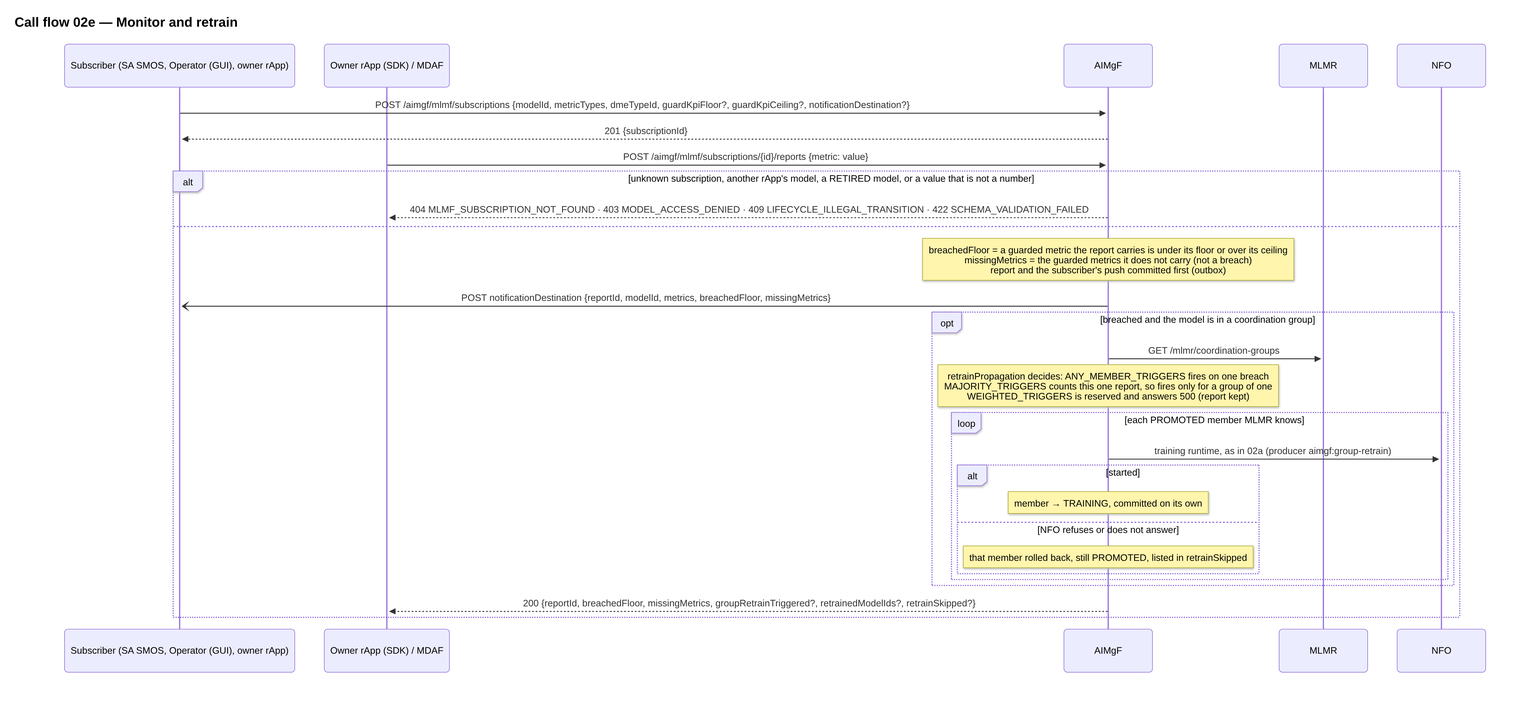
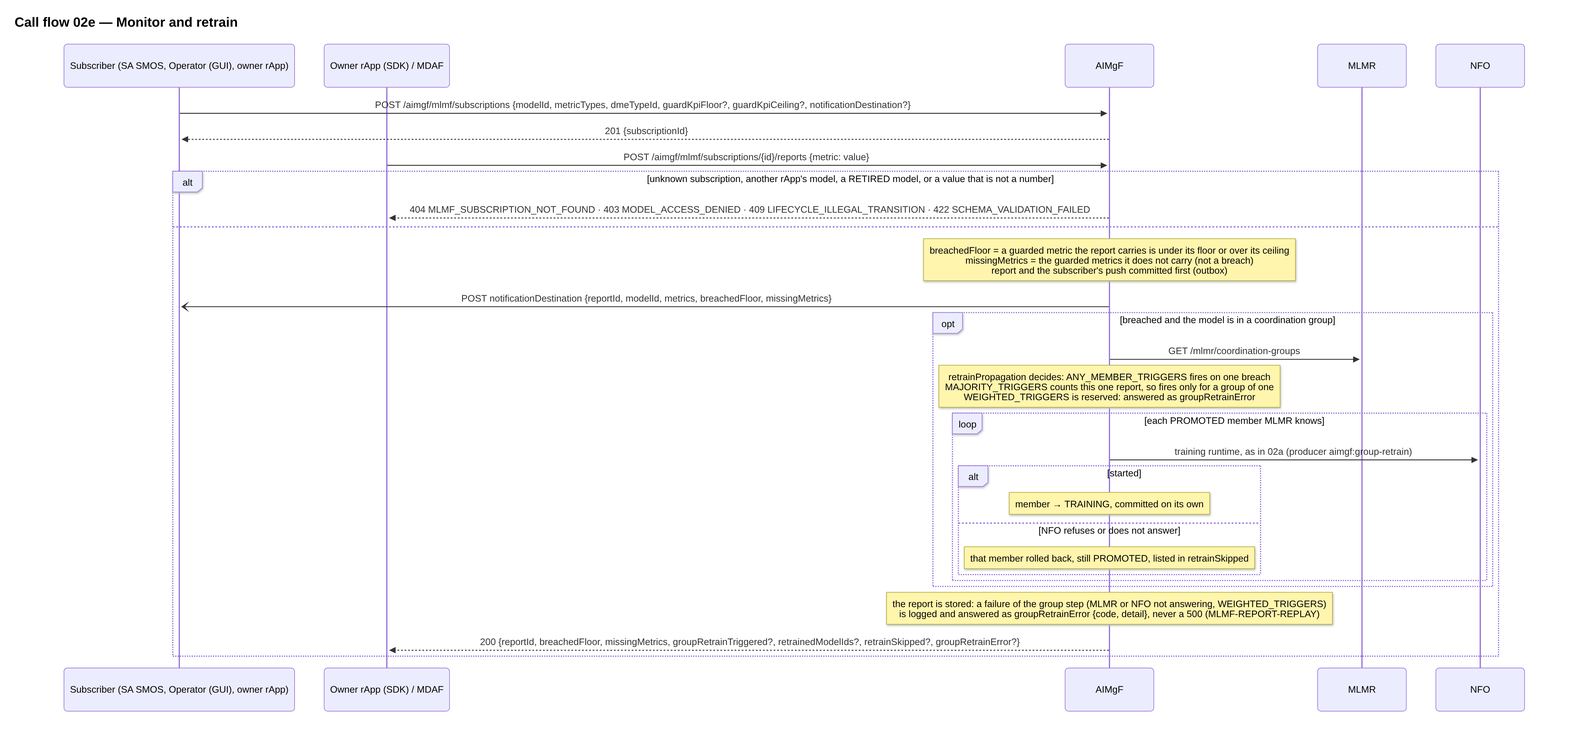
AIMgF: a stored MLMF report answers 200 whatever its group retrain does (MLMF-REPORT-REPLAY)
POST /aimgf/mlmf/subscriptions/{id}/reports commits the report and its
outbox row, then runs the group-retrain step. When that step raised
(WEIGHTED_TRIGGERS, an unknown retrainPropagation, MLMR or NFO not
answering) the route answered 500, @idempotent released the key, and the
SDK's repeat stored a second report.

The step is now _group_retrain_step, which never raises: a failure is
rolled back, logged at WARNING and answered as groupRetrainError
{code, detail} (UPSTREAM_FAILED or INTERNAL_ERROR) beside the members
already started. A failure before the commit still raises, stores nothing
and releases the key. Nothing relied on the 500 (MDAF's drift forwarding
swallows every answer; no sample rApp, SA SMOS or SDK test reads it).

Tests in aimgf/tests/test_main.py; docs: aimgf README and lifecycle, call
flows 02e and 13b (images redrawn), VALIDATION, HISTORY, CHANGELOG. The
item is recorded and closed here, so it has no OPEN_ITEMS row.

Claude-Session: https://claude.ai/code/session_01Q99JvKMeSSktNE2dzQEuGf

diff --git a/smo/aimgf/app/main.py b/smo/aimgf/app/main.py
@@ -1968,13 +1968,14 @@ def report_performance(request: Request, subscription_id: uuid.UUID, metrics: di
     # number is 422 `SCHEMA_VALIDATION_FAILED` with nothing stored. A report breaches when a guarded metric it carries is below its floor or above its ceiling; a
     # guarded metric it does not carry is listed in `missingMetrics` and does not breach (call flow 13b: MDAF's drift reports carry only their own outputs). The
     # report and its subscriber notification (`{reportId, modelId, metrics, breachedFloor, missingMetrics}`) are committed first. Only then, for a breach, is the model's
-    # coordination group fetched from MLMR and `should_trigger_group_retrain` asked with `breached_count=1`; a raise from it (WEIGHTED_TRIGGERS or an unknown
-    # value) is not caught and answers 500 after the report is already stored. When it fires, `_trigger_group_retrain` starts a run for each PROMOTED member,
-    # committing each on its own; a member NFO refuses is skipped, not fatal (call flow 02e). Answers `reportId`, `breachedFloor` and, for a group member,
-    # `groupRetrainTriggered` and, when it fired, `retrainedModelIds` and `retrainSkipped` (`[{modelId, reason}]`); `missingMetrics` always.
+    # coordination group fetched from MLMR and `should_trigger_group_retrain` asked with `breached_count=1`. When it fires, `_trigger_group_retrain` starts a
+    # run for each PROMOTED member, committing each on its own; a member NFO refuses is skipped, not fatal (call flow 02e). Answers `reportId`, `breachedFloor`
+    # and, for a group member, `groupRetrainTriggered` and, when it fired, `retrainedModelIds` and `retrainSkipped` (`[{modelId, reason}]`); `missingMetrics` always.
+    # Once the report is committed the answer is 200 whatever the group step does (MLMF-REPORT-REPLAY): a failure there (MLMR or NFO not answering,
+    # WEIGHTED_TRIGGERS or an unknown `retrainPropagation`) is answered as `groupRetrainError` `{code, detail}` (`_group_retrain_step`). A failure before the
+    # commit still raises, stores nothing and releases the Idempotency-Key.
     # `@idempotent("aimgf")` (SDK-RETRY-IDEMPOTENCY): a keyed repeat is answered from the first answer, so no second report, notification or group retrain. The
-    # path is part of the key's fingerprint, so the same key on another subscription's reports is 422 IDEMPOTENCY_KEY_REUSED. A 500 from the group step after
-    # the report is committed releases the key (only 2xx answers are stored), so a repeat after that 500 stores a second report.
+    # path is part of the key's fingerprint, so the same key on another subscription's reports is 422 IDEMPOTENCY_KEY_REUSED.
     sub = db.get(MLMFSubscription, subscription_id)
     if sub is None:
         raise framework_error(FrameworkError.MLMF_SUBSCRIPTION_NOT_FOUND, detail="no such MLMF subscription")
@@ -1999,19 +2000,38 @@ def report_performance(request: Request, subscription_id: uuid.UUID, metrics: di
 
     result = {"reportId": str(report.id), "breachedFloor": breached, "missingMetrics": missing}
     if breached:
-        # if this model belongs to a coordination group, decide group-scoped
-        # propagation per LLD section 4.3-4.4; otherwise it's a standalone retrain trigger.
-        group = _find_coordination_group_for_model(sub.model_id)
-        if group is not None:
-            triggered = should_trigger_group_retrain(
-                group["retrainPropagation"], member_count=len(group["memberModelIds"]), breached_count=1
-            )
-            result["groupRetrainTriggered"] = triggered
-            if triggered:
-                started, skipped = _trigger_group_retrain(db, group)
-                result["retrainedModelIds"] = [str(mid) for mid in started]
-                result["retrainSkipped"] = skipped
+        _group_retrain_step(db, sub.model_id, result)
     return result
+
+
+def _group_retrain_step(db: Session, model_id: uuid.UUID, result: dict) -> None:
+    """Runs the group-retrain step of a breached MLMF report, after the report is committed, and writes its outcome into `result` (the route's answer). Never raises.
+
+    For a model in an MLMR coordination group it sets `groupRetrainTriggered` (the group's `retrainPropagation` decides, LLD sections 4.3 and 4.4) and, when it fired,
+    `retrainedModelIds` and `retrainSkipped` (call flow 02e); a model in no group is not retrained by a breach. Any failure of the step (MLMR or NFO not answering, a
+    reserved or unknown `retrainPropagation`, anything else) rolls back what the step had not committed, is logged at WARNING and is answered as
+    `groupRetrainError` `{code, detail}` (`code` UPSTREAM_FAILED for a transport error, INTERNAL_ERROR otherwise), beside the members already started.
+    It never raises because the report is stored: a 500 here released the Idempotency-Key, and a repeat stored a second report (MLMF-REPORT-REPLAY).
+    """
+    started: list[uuid.UUID] = []
+    skipped: list[dict] = []
+    try:
+        group = _find_coordination_group_for_model(model_id)
+        if group is None:
+            return
+        triggered = should_trigger_group_retrain(group["retrainPropagation"], member_count=len(group["memberModelIds"]), breached_count=1)
+        result["groupRetrainTriggered"] = triggered
+        if triggered:
+            _trigger_group_retrain(db, group, started, skipped)
+    # Deliberately broad: whatever fails after the report's commit must not turn its answer into a 500 (see the docstring).
+    except Exception as exc:  # noqa: BLE001
+        db.rollback()
+        code = FrameworkError.UPSTREAM_FAILED[0] if isinstance(exc, httpx.HTTPError) else FrameworkError.INTERNAL_ERROR[0]
+        logger.warning("group retrain after the MLMF report of model %s failed: %s %s: %s", model_id, code, type(exc).__name__, exc)
+        result["groupRetrainError"] = {"code": code, "detail": f"{type(exc).__name__}: {exc}"}
+    if result.get("groupRetrainTriggered"):
+        result["retrainedModelIds"] = [str(mid) for mid in started]
+        result["retrainSkipped"] = skipped
 
 
 @app.get("/mlmf/subscriptions")
@@ -2062,16 +2082,16 @@ def list_recent_performance_reports(request: Request, breached_only: bool = Fals
     return {**page, "items": [_performance_report_view(r) for r in page["items"]]}
 
 
-def _trigger_group_retrain(db: Session, group: dict) -> tuple[list[uuid.UUID], list[dict]]:
-    """Starts a RE_TRAINING run for every PROMOTED member of the coordination group; returns the ids of the members it started and the members it could not start.
+def _trigger_group_retrain(db: Session, group: dict, retrained_model_ids: list[uuid.UUID], skipped: list[dict]) -> None:
+    """Starts a RE_TRAINING run for every PROMOTED member of the coordination group; appends each member it started to `retrained_model_ids` and each it could not
+    start to `skipped` as it goes, so the caller keeps them when a later member raises.
 
     `group` is MLMR's group object (`memberModelIds`). A member MLMR no longer knows (`_get_model_or_none`) or that is not PROMOTED (already TRAINING from an earlier trigger, mid-certification, never
     certified) is passed over, never forced: a group retrain is a PROMOTED model's retrain, not a first cycle or a recovery. Each run goes through `_start_training` (the same lifecycle gate, NFO runtime and
     MLTrainingProcess as a requested retrain) with producer `aimgf:group-retrain`. Best effort per member (call flow 02e, DOC-CF-1.6): each started run is committed on its own, and a member whose start
-    is refused (NFO refuses or does not answer its runtime, 502/503) is rolled back alone and listed as `{modelId, reason}` in the second list, so one member never stops the others.
+    is refused (NFO refuses or does not answer its runtime, 502/503) is rolled back alone and listed as `{modelId, reason}` in `skipped`, so one member never stops the others.
+    Anything else (MLMR not answering for a member) raises, and `_group_retrain_step` answers it.
     """
-    retrained_model_ids: list[uuid.UUID] = []
-    skipped: list[dict] = []
     for raw_member_id in group["memberModelIds"]:
         member_id = uuid.UUID(raw_member_id)
         if _get_model_or_none(member_id) is None:
@@ -2093,7 +2113,6 @@ def _trigger_group_retrain(db: Session, group: dict) -> tuple[list[uuid.UUID], l
             continue
         db.commit()
         retrained_model_ids.append(member_id)
-    return retrained_model_ids, skipped
 
 
 def _write_training_report(db: Session, job: TrainingJob, body: CompleteJobRequest) -> MLTrainingReport:

diff --git a/smo/aimgf/tests/test_main.py b/smo/aimgf/tests/test_main.py
@@ -1671,6 +1671,93 @@ def test_a_repeated_performance_report_with_the_same_key_is_stored_and_notified_
     assert calls == ["http://consumer/mlmf"]
 
 
+# ---------------------------------------------------------------- MLMF-REPORT-REPLAY: the group step never turns a stored report into a 500
+
+def _breaching_member_subscription(mlmr, db_session_factory, retrain_propagation="ANY_MEMBER_TRIGGERS"):
+    """A PROMOTED model in a coordination group of one with `retrain_propagation`, and an MLMF subscription on it whose floor 0.9 a report of 0.5 breaches;
+    returns the subscription id."""
+    member_ids = _make_group_with_subscription(mlmr, db_session_factory, [ModelLifecycleState.PROMOTED], retrain_propagation=retrain_propagation)
+    with db_session_factory() as session:
+        sub = MLMFSubscription(model_id=member_ids[0], metric_types=["accuracy"], dme_type_id=uuid.uuid4(), guard_kpi_floor={"accuracy": 0.9})
+        session.add(sub)
+        session.commit()
+        return sub.subscription_id
+
+
+def _report_count(db_session_factory):
+    """The number of PerformanceReport rows."""
+    with db_session_factory() as session:
+        return session.query(PerformanceReport).count()
+
+
+def test_a_failing_group_step_answers_200_with_group_retrain_error_and_keeps_one_report(client, mlmr, db_session_factory, caplog):
+    """A group whose `retrainPropagation` is the reserved WEIGHTED_TRIGGERS makes the group step raise after the report is committed: the answer is 200 with
+    `groupRetrainError` (INTERNAL_ERROR, the reason), one report is stored and a WARNING is logged, instead of a 500 that released the key."""
+    sub_id = _breaching_member_subscription(mlmr, db_session_factory, retrain_propagation="WEIGHTED_TRIGGERS")
+    with caplog.at_level("WARNING", logger="app.main"):
+        resp = client.post(f"/mlmf/subscriptions/{sub_id}/reports", json={"accuracy": 0.5})
+    assert resp.status_code == 200, resp.text
+    body = resp.json()
+    assert body["breachedFloor"] is True and body["groupRetrainError"]["code"] == "INTERNAL_ERROR"
+    assert "WEIGHTED_TRIGGERS" in body["groupRetrainError"]["detail"] and "groupRetrainTriggered" not in body
+    assert _report_count(db_session_factory) == 1
+    assert any("group retrain" in r.getMessage() for r in caplog.records if r.levelname == "WARNING")
+
+
+def test_mlmr_not_answering_the_group_read_is_upstream_failed_in_the_body(client, mlmr, db_session_factory, monkeypatch):
+    """A transport error on the coordination-group read at MLMR is answered as `groupRetrainError` UPSTREAM_FAILED, with the report stored."""
+    import httpx
+    sub_id = _breaching_member_subscription(mlmr, db_session_factory)
+
+    real_get = mlmr.get
+
+    def get(path, **kw):
+        # the group list does not answer; any other read is MLMR's double
+        if path == "/mlmr/coordination-groups":
+            raise httpx.ConnectError("mlmr is down")
+        return real_get(path, **kw)
+    monkeypatch.setattr(mlmr, "get", get)
+    resp = client.post(f"/mlmf/subscriptions/{sub_id}/reports", json={"accuracy": 0.5})
+    assert resp.status_code == 200 and resp.json()["groupRetrainError"]["code"] == "UPSTREAM_FAILED"
+    assert _report_count(db_session_factory) == 1
+
+
+def test_a_repeat_after_a_failing_group_step_is_replayed_and_stores_no_second_report(client, mlmr, db_session_factory):
+    """With the 200 the key is stored: the SDK's repeat with the same Idempotency-Key gets the first answer back and no second report is stored."""
+    sub_id = _breaching_member_subscription(mlmr, db_session_factory, retrain_propagation="WEIGHTED_TRIGGERS")
+    first = client.post(f"/mlmf/subscriptions/{sub_id}/reports", json={"accuracy": 0.5}, headers={"Idempotency-Key": "rep-g"})
+    again = client.post(f"/mlmf/subscriptions/{sub_id}/reports", json={"accuracy": 0.5}, headers={"Idempotency-Key": "rep-g"})
+    _assert_replayed(first, again, 200)
+    assert "groupRetrainError" in again.json()
+    assert _report_count(db_session_factory) == 1
+
+
+def test_a_failure_before_the_report_commit_stores_nothing_and_releases_the_key(client, mlmr, db_session_factory, monkeypatch):
+    """A failure before the commit is not swallowed: the commit of the report fails, the call is a 500, no report is stored and the key is released,
+    so the repeat with the same key runs and stores the one report."""
+    sub_id = _breaching_member_subscription(mlmr, db_session_factory)
+    from sqlalchemy.orm import Session as OrmSession
+    real_commit = OrmSession.commit
+
+    def failing_commit(self):
+        # only the commit that carries the report and its outbox row fails; the key's reservation and release commit as usual
+        if any(isinstance(o, PerformanceReport) for o in self.identity_map.values()):
+            self.rollback()
+            raise RuntimeError("the database refused the commit")
+        return real_commit(self)
+
+    monkeypatch.setattr(OrmSession, "commit", failing_commit)
+    failed = TestClient(app, raise_server_exceptions=False).post(f"/mlmf/subscriptions/{sub_id}/reports", json={"accuracy": 0.95},
+                                                                 headers={"Idempotency-Key": "rep-c"})
+    monkeypatch.setattr(OrmSession, "commit", real_commit)
+    assert failed.status_code == 500 and _report_count(db_session_factory) == 0
+    with db_session_factory() as session:
+        assert session.query(IdempotencyKey).count() == 0
+    again = client.post(f"/mlmf/subscriptions/{sub_id}/reports", json={"accuracy": 0.95}, headers={"Idempotency-Key": "rep-c"})
+    assert again.status_code == 200 and "Idempotent-Replayed" not in again.headers
+    assert _report_count(db_session_factory) == 1
+
+
 # ---------------------------------------------------------------- notifications through the outbox (PR-MSG-1.7)
 
 def _outbox_rows(db_session_factory):

diff --git a/smo/aimgf/app/statemachine.py b/smo/aimgf/app/statemachine.py
@@ -247,7 +247,7 @@ def should_trigger_group_retrain(retrain_propagation: str, member_count: int, br
     `retrain_propagation` is the group's `retrainPropagation` value from MLMR (untrusted text: anything unknown raises `ValueError`). With no breach the answer is
     always False. ANY_MEMBER_TRIGGERS: one breach is enough. MAJORITY_TRIGGERS: more than half the members must have breached; `main.report_performance` passes
     `breached_count=1`, so in practice this only fires for a group of one member. WEIGHTED_TRIGGERS is reserved and raises `NotImplementedError`
-    (`OI-1-weighted-triggers`), which `report_performance` does not catch, so a report against such a group answers 500.
+    (`OI-1-weighted-triggers`); `report_performance` answers it as `groupRetrainError`, the report already stored.
     Pure function: no database, no side effects. Design: AI/ML Workflow LLD sections 4.3 and 4.4.
     """
     if breached_count == 0:

diff --git a/smo/aimgf/README.md b/smo/aimgf/README.md
@@ -224,7 +224,7 @@ Deploy needs model state `CERTIFIED` or `PROMOTED` (`409 MODEL_NOT_CERTIFIED`). 
 
 **Job status (not a third FSM).** Training: `IN_PROGRESS` → `FINISHED` / `FAILED` / `CANCELLED`, `IN_PROGRESS` ⇄ `SUSPENDED` (suspend only from `IN_PROGRESS`, resume only from `SUSPENDED`; resume restarts the timeout clock). Validation: `RUNNING` → `COMPLETED` / `FAILED` / `CANCELLED`, `RUNNING` ⇄ `SUSPENDED` (NRM flags only). Emulation and inference: `RUNNING` → `COMPLETED` / `FAILED` (inference FSM: `COMPLETE`, `FAIL`). A job already terminal cannot be completed again (409 `TRAINING_JOB_ILLEGAL_TRANSITION`, which is also the code used for validation, emulation and inference jobs). Suspend and resume never touch the model lifecycle.
 
-**Group retrain propagation** (`should_trigger_group_retrain`). A breached MLMF report on a model that belongs to an MLMR coordination group applies the group's `retrainPropagation`: `ANY_MEMBER_TRIGGERS` fires on one breach; `MAJORITY_TRIGGERS` needs more than half the members (the code passes `breached_count=1`, so it only fires for groups of one); `WEIGHTED_TRIGGERS` raises `NotImplementedError` (`OI-1-weighted-triggers`); other values raise `ValueError`. When it fires, every currently `PROMOTED` member gets a `RE_TRAINING` run; non-`PROMOTED` members are skipped.
+**Group retrain propagation** (`should_trigger_group_retrain`). A breached MLMF report on a model that belongs to an MLMR coordination group applies the group's `retrainPropagation`: `ANY_MEMBER_TRIGGERS` fires on one breach; `MAJORITY_TRIGGERS` needs more than half the members (the code passes `breached_count=1`, so it only fires for groups of one); `WEIGHTED_TRIGGERS` raises `NotImplementedError` (`OI-1-weighted-triggers`); other values raise `ValueError`; the report route answers either as `groupRetrainError`. When it fires, every currently `PROMOTED` member gets a `RE_TRAINING` run; non-`PROMOTED` members are skipped.
 
 ### 2.4 API
 
@@ -279,7 +279,7 @@ Paths are relative to `/aimgf`. Lists are `{items, total, limit, offset}` with `
 |---|---|---|
 | POST | `/mlmf/subscriptions` | Query `model_id`, `dme_type_id`, `notification_destination`; body `metric_types`, `guard_kpi_floor` and `guard_kpi_ceiling` (metric name to number; a ceiling guards a lower-is-better metric). Call flow 13a: a guard that is not a number is 422 `SCHEMA_VALIDATION_FAILED`; the model is looked up for every caller (404 `MODEL_NOT_FOUND`), and an rApp must own it (403 `MODEL_ACCESS_DENIED`, `SEC-15.3c`; a model with no owner is open); a RETIRED model is 409; DME must know the type (`GET /dme/dme-types/{id}`, 422 `DME_ARTIFACT_NOT_FOUND`) |
 | GET / DELETE | `/mlmf/subscriptions`, `/mlmf/subscriptions/{id}` | List (filter `model_id`); idempotent delete. An rApp (`SEC-15.3c`): naming a model it does not own is 403 `MODEL_ACCESS_DENIED`, the unfiltered list holds only subscriptions of models it may see (owned, owner-less, or unknown to MLMR), and deleting a subscription of another rApp's model is 403 (a model MLMR has deleted does not stop the delete). The console, MDAF and a call with no role see and delete all |
-| POST / GET | `/mlmf/subscriptions/{id}/reports` | Report metrics (call flow 13b: every value a number, else 422; breach = a guarded metric the report carries below its floor or above its ceiling; a guarded metric it does not carry is listed in `missingMetrics` and does not breach; response carries `missingMetrics` and may carry `groupRetrainTriggered`, `retrainedModelIds`, `retrainSkipped`: a group retrain starts each PROMOTED member on its own, and one NFO refuses is skipped and listed, call flow 02e) / list. 404 `MLMF_SUBSCRIPTION_NOT_FOUND`; 403 `MODEL_ACCESS_DENIED` for an rApp that does not own the subscribed model (`SEC-15.3c`; a report can start a group retrain) |
+| POST / GET | `/mlmf/subscriptions/{id}/reports` | Report metrics (call flow 13b: every value a number, else 422; breach = a guarded metric the report carries below its floor or above its ceiling; a guarded metric it does not carry is listed in `missingMetrics` and does not breach; response carries `missingMetrics` and may carry `groupRetrainTriggered`, `retrainedModelIds`, `retrainSkipped`: a group retrain starts each PROMOTED member on its own, and one NFO refuses is skipped and listed, call flow 02e; and `groupRetrainError` `{code, detail}` when the group step failed after the report was committed: `UPSTREAM_FAILED` for MLMR or NFO not answering, `INTERNAL_ERROR` otherwise, such as `WEIGHTED_TRIGGERS`; the answer is still 200 and the failure is logged at WARNING) / list. 404 `MLMF_SUBSCRIPTION_NOT_FOUND`; 403 `MODEL_ACCESS_DENIED` for an rApp that does not own the subscribed model (`SEC-15.3c`; a report can start a group retrain) |
 | GET | `/mlmf/reports?breached_only=` | Recent reports across subscriptions; for an rApp only those of subscriptions on models it may see (`SEC-15.3c`) |
 | POST / GET | `/feature-groups` | Create / list. The data-lake credential is `tokenRef` (the name of a secret: lower-case letters, digits, `-` and `_`, starting with a letter; format checked at registration, 422 `SCHEMA_VALIDATION_FAILED` without echoing the value; the secret itself is resolved by `feature_group_token` from `AIMGF_FEATURE_GROUP_TOKEN_<REF>` or its `_FILE` when AIMgF connects to the data lake, which nothing does yet, so a reference is not checked to exist) **or** the deprecated clear-text `token` (stored as before; the answer then carries `Deprecation: true` and a `warnings` entry; dropped in a later minor release); exactly one of the two, else 422. Create, get and list never return the token: `tokenSet` (true/false) and `tokenRef` (the name, or null). With `enableDme`, `dmeTypeId` is required and the group's DME data job is created first (CONTINUOUS, `lifecycleStage` TRAINING, consumer `aimgf:feature-group:<name>`, definition `{featureGroupName, features, measuredObjClass?, sourceName?, measurement}`, delivery `dataDeliveryMethod`, default `PULL_HTTP`); a refusal means no group. 400 `FEATURE_GROUP_NAME_INVALID`, 409 `FEATURE_GROUP_ALREADY_REGISTERED`, 422 `FEATURE_GROUP_DME_JOB_REFUSED` |
 | GET / DELETE | `/feature-groups/{name}` | Read / delete; delete terminates the DME data job (best effort, outcome in `dmeDataJobTeardown`). 404 `FEATURE_GROUP_NOT_FOUND` |
@@ -289,8 +289,8 @@ Paths are relative to `/aimgf`. Lists are `{items, total, limit, offset}` with `
 are `@idempotent("aimgf")` (`smo_shared.idempotency`, PR-ST-3), like the four job creates: a repeat with the same `Idempotency-Key` (every SDK POST carries
 one, and repeats it after a transport error, 502 or 504) is answered with the first answer and `Idempotent-Replayed: true`. It asks NFO to scale no second
 time, and stores no second subscription, report or notification and starts no second group retrain. The key is bound to the path too, so the same key on
-another model or subscription is 422 `IDEMPOTENCY_KEY_REUSED`, as is the same key with another body. A report whose group-retrain step fails with 500
-after the report is committed releases its key, so a repeat stores a second report. The other SDK POSTs here are safe by their state (a repeat is
+another model or subscription is 422 `IDEMPOTENCY_KEY_REUSED`, as is the same key with another body. A report answers 200 once it is committed, so its key
+is stored whatever the group-retrain step does (MLMF-REPORT-REPLAY); a failure before the commit stores nothing and releases the key. The other SDK POSTs here are safe by their state (a repeat is
 refused 409) or by the unique feature-group name; each says why in a `# Not @idempotent` comment.
 
 **TS 28.105 NRM resources.** Each is `{"id", "attributes"}`; unknown ids are 404 `NRM_OBJECT_NOT_FOUND`; bodies reject unknown attributes (422).
@@ -411,7 +411,7 @@ Counts per file: [`docs/TEST_COUNTS.md`](../docs/TEST_COUNTS.md).
 
 | Test file | Covers |
 |---|---|
-| `tests/test_main.py` | training / validation / emulation request, complete, cancel, suspend / resume, supersede, DME check, completion notifications; advance, governance records, operator gates, lifecycle history; runtime deploy / activate / scale / terminate and end-of-life; inference gating; NFO execution runtime create / teardown per job kind; MLMF subscribe / report / notify / unsubscribe and group retrain; feature groups; health; the `Idempotency-Key` replay of the job creates, runtime scale (one NFO call), MLMF subscribe and report (one report, one notification; 422 `IDEMPOTENCY_KEY_REUSED` for another body or another subscription or model) |
+| `tests/test_main.py` | training / validation / emulation request, complete, cancel, suspend / resume, supersede, DME check, completion notifications; advance, governance records, operator gates, lifecycle history; runtime deploy / activate / scale / terminate and end-of-life; inference gating; NFO execution runtime create / teardown per job kind; MLMF subscribe / report / notify / unsubscribe and group retrain; feature groups; health; the `Idempotency-Key` replay of the job creates, runtime scale (one NFO call), MLMF subscribe and report (one report, one notification; 422 `IDEMPOTENCY_KEY_REUSED` for another body or another subscription or model); MLMF-REPORT-REPLAY: a group step that fails after the report's commit (WEIGHTED_TRIGGERS, MLMR not answering) is 200 with `groupRetrainError` and one report, its keyed repeat replayed, and a failure before the commit stores nothing and releases the key |
 | `tests/test_feature_group_token.py` | `SEC-15.2`: a `tokenRef` group answers `tokenSet` and the name and no `token`; a clear-text `token` is stored and never returned by create, get or list; the deprecation header and warning; `token` deprecated and optional in the OpenAPI schema; both or neither credential and a bad reference are 422 without echoing the value; `feature_group_token` resolves from the environment, a `_FILE` or the legacy column |
 | `tests/test_model_ownership_routes.py` | `SEC-15.3c`: for training-jobs, ml-training-requests, validation-jobs, ml-testing-requests, emulation-jobs, ml-update-requests, the lifecycle, its history, and the MLMF subscription create and list, another rApp is 403 `MODEL_ACCESS_DENIED` with nothing written, and the owner, the console, a call with no role and an owner-less model pass; an unknown model is 404 for an rApp (and the history and subscription create of the console are not asked); an update request naming a foreign model starts no run; the routes that take a subscription id (reports, a report, delete) are the owner's, the console's and the owner-less model's; an rApp's unfiltered subscription and report listings hold only the models it may see |
 | `tests/test_on_behalf_owner.py` | `MLLF-NODEGROUP-OWNER`: an SMO module acting for another rApp (`X-R1-On-Behalf-Of`) is 403 `MODEL_ACCESS_DENIED` on node-groups (nothing written) and on every route of the `SEC-15.3c` table, while one acting for the owner, or for nobody, passes; an inference job a module requests records the rApp it acts for as `requested_by` |

diff --git a/smo/HISTORY.md b/smo/HISTORY.md
@@ -2288,7 +2288,7 @@ stays undecorated: the SDK sends that multipart upload without a key and never r
   answer again, which tells the rApp to replay the `actionId`. A 4xx or 502 raised by the route releases the key, so a repeat runs again (as before).
   The credential header is left out of the fingerprint and of the stored row.
 - **A known gap, not new.** `/mlmf/subscriptions/{id}/reports` commits the report before the group retrain step; a 500 from that step releases the key
-  (only 2xx answers are stored), so a repeat after it stores a second report. The decorator's documented limit (a replica that dies between the route's
+  (only 2xx answers are stored), so a repeat after it stores a second report (closed since: MLMF-REPORT-REPLAY). The decorator's documented limit (a replica that dies between the route's
   commit and the stored answer) applies to every route.
 - **Database roles.** `migrations/db_roles.json`: the `sme` and `mlmr` roles list `idempotency_key` (aimgf, dme and rapp-mgmt already did); the
   `test_db_roles.py` check now expects dme, mlmr and sme among the decorating modules.
@@ -2306,6 +2306,30 @@ stays undecorated: the SDK sends that multipart upload without a key and never r
   `OPEN_ITEMS.md`.
 - **Not taken.** Decorating the class-b routes, so that a repeat after a lost answer replays the first answer instead of a 409 the SDK raises: still a
   choice, not needed against duplicates. Decorating the multipart artifact upload: the SDK never keys or repeats it.
+
+### MLMF-REPORT-REPLAY — a stored MLMF report answers 200 whatever its group-retrain step does
+
+Recorded and closed in the same change. `aimgf/README.md` ("Repeats") documented it and SDK-RETRY-IDEMPOTENCY slice 2 named it as a known gap, but
+`OPEN_ITEMS.md` had no row: `POST /aimgf/mlmf/subscriptions/{id}/reports` commits the report and its outbox row, then runs the group-retrain step; when that
+step raised, the route answered 500, `@idempotent` released the key (only 2xx answers are stored), and the SDK's repeat stored a second report (and could
+count the breach again).
+
+- **Who relied on the 500.** Nothing. MDAF's drift forwarding (`mdaf/app/mda.py` `_forward_drift_to_subscriptions`) ignores the answer and swallows every
+  error; the Python SDK's `report_performance` raises on a non-2xx and no caller reads that; no sample rApp, SA SMOS, the Go or Java SDK posts MLMF reports;
+  the GUI's "report" button shows success or the error. No test pinned a 500 from the group step (the one 500 test in `aimgf/tests/test_main.py` is a
+  failed commit of a job completion). `statemachine.py` and `aimgf/docs/lifecycle.md` stated the 500 as behaviour; both now say what the code does.
+- **The change (`aimgf/app/main.py`).** The step moved into `_group_retrain_step(db, model_id, result)`, which never raises: the MLMR group read
+  (`_find_coordination_group_for_model`), `should_trigger_group_retrain` (`NotImplementedError` for `WEIGHTED_TRIGGERS`, `ValueError` for an unknown
+  value) and `_trigger_group_retrain` are inside one `try`; a failure rolls back what the step had not committed, is logged at WARNING and is answered as
+  `groupRetrainError` `{code, detail}` beside `retrainSkipped` (call flow 02e's pattern): `code` is `UPSTREAM_FAILED` for an `httpx.HTTPError`,
+  `INTERNAL_ERROR` otherwise, `detail` the exception's class and text. `_trigger_group_retrain` now appends to lists the caller passes, so the members
+  started before a later one raised are still answered in `retrainedModelIds`. Nothing before the commit is caught: a failure there still raises, stores
+  nothing and releases the key. The response is a dict with no response model, so the OpenAPI document is unchanged.
+- **Tests (`aimgf/tests/test_main.py`).** A WEIGHTED_TRIGGERS group: 200 with `groupRetrainError` INTERNAL_ERROR, one report, a WARNING logged; MLMR not
+  answering the group read: UPSTREAM_FAILED in the body, one report; the same key repeated: replayed, still one report; the commit of the report failing:
+  500, no report, no key left, and the repeat stores the one report. The first three fail on the code before the change.
+- **Docs.** `aimgf/README.md` (the gap sentence removed, `groupRetrainError` in the route table and the propagation paragraph, the tests), call flows
+  02e and 13b and `aimgf/docs/lifecycle.md` (the 500 replaced by `groupRetrainError`; images redrawn), `docs/VALIDATION.md`, `CHANGELOG.md`.
 
 ### PR-MGT-14, PR-MGT-15 — zero-touch onboarding and software campaigns (MGT-14.1 to 14.5, MGT-15.1 to 15.4); the GUI, notifications and a real software exchange open
 

diff --git a/smo/CHANGELOG.md b/smo/CHANGELOG.md
@@ -63,6 +63,7 @@ Entries are written for an operator: what changed in behaviour, configuration or
 
 ### Fixed
 
+- **An MLMF performance report is stored once, also when its group retrain fails (`MLMF-REPORT-REPLAY`, call flows 02e and 13b).** `POST /aimgf/mlmf/subscriptions/{id}/reports` stores the report before it looks at the model's coordination group; when that step failed (a group whose `retrainPropagation` is `WEIGHTED_TRIGGERS`, MLMR or NFO not answering) the call answered 500 with the report already stored, and the SDK's repeat stored a second report. It now answers 200 with `groupRetrainError` `{code, detail}` (`UPSTREAM_FAILED` or `INTERNAL_ERROR`) beside the members it did start, and logs the failure at WARNING; the repeat gets the first answer. A failure before the report is stored is still an error and stores nothing.
 - **A repeated SDK call no longer creates a second intent, analytics report, subscription or MDA request (`SDK-RETRY-IDEMPOTENCY`, slice 1).** The rApp SDKs repeat a POST with the same `Idempotency-Key` after a dropped connection, 502 or 504, but Intent Service and MDAF ignored the key, so a repeat after a lost answer ran again: a second intent pushed to its handler, a second report notified to every subscriber, a second subscription doubling every notification. Now `POST /intent-service/intents`, `/intent-reports`, `/autonomy-dispatches` and `POST /mdaf/reports`, `/subscriptions`, `/mda-requests`, `/mda-reports` answer such a repeat with the first answer and the header `Idempotent-Replayed: true`, and run nothing; the same key with a different body is `422 IDEMPOTENCY_KEY_REUSED`. A call without the key behaves as before. **Database roles:** the `intent-service` and `mdaf` roles in `migrations/db_roles.json` may now write the shared `idempotency_key` table; the `migrate` service (compose) and the migrate Job (Helm) grant it when they run `scripts/db_roles.py`, so an upgrade needs no step of its own. No schema change. Which SDK POSTs are replayed, safe by state, or still open: `sdk/README.md` 2.5.
 - **A migration blocked by a lock no longer stalls the release that is running (MIGRATE-LOCK-HOLD, call flow 30).** The migrate Job held the locks its earlier revisions took while a later one waited for a lock another session held, so reads of those modules' tables (RAN NF OAM config jobs, rApp instances) hung until the Job's deadline. On Postgres every lock now waits at most `SMO_MIGRATE_LOCK_TIMEOUT_MS` (default 5000); on a timeout the migration rolls back, changing nothing and releasing its locks, and tries again up to `SMO_MIGRATE_LOCK_ATTEMPTS` (default 10) times, pausing 1 s doubling to 10 s.
 - **Every platform POST the rApp SDKs repeat is now safe to repeat (`SDK-RETRY-IDEMPOTENCY`, slice 2, closes the item).** These routes also answer a repeat that carries the same `Idempotency-Key` with the first answer and `Idempotent-Replayed: true`, and run nothing again: AIMgF `POST /aimgf/models/{id}/runtime/scale` (no second NFO scale), `/aimgf/mlmf/subscriptions` and `/aimgf/mlmf/subscriptions/{id}/reports` (no second report, notification or group retrain); DME `POST /dme/type-subscriptions`, `/dme/data-jobs`, `/dme/offers`, `/dme/data-jobs/{id}/records` and `/dme/actions` (an O1 action sent without an `actionId`, as the Go and Java SDKs and `mediate_action` do, was recorded and written to the network twice on a repeat); rApp Management `POST /rapp-mgmt/instances/{id}/performance` and `/fault` (a repeated critical fault now gets the first answer instead of a 409); SME `POST /sme/capif-events/v1/{subscriberId}/subscriptions`; MLMR `POST /mlmr/coordination-groups`. The same key with another body, or on another resource's path, is `422 IDEMPOTENCY_KEY_REUSED`. A call without the key behaves as before, and `/dme/actions` still deduplicates on `actionId` across calls. **Database roles:** the `sme` and `mlmr` roles in `migrations/db_roles.json` may now write the shared `idempotency_key` table; the `migrate` service (compose) and the migrate Job (Helm) grant it, so an upgrade needs no step of its own. No schema or API change. The list per route: `sdk/README.md` 2.5.

diff --git a/smo/docs/VALIDATION.md b/smo/docs/VALIDATION.md
@@ -23,6 +23,8 @@ The number of tests in each suite and in each test file (files, test functions, 
 
 **SDK repeats (SDK-RETRY-IDEMPOTENCY, slice 2)**: `aimgf/tests/test_main.py`, `dme/tests/test_main.py`, `dme/tests/test_action_unconfirmed.py`, `rapp-mgmt/tests/test_main.py`, `sme/tests/test_main.py` and `mlmr/tests/test_main.py` post each of the twelve routes decorated in slice 2 twice under one `Idempotency-Key` (one new row, the first answer replayed with `Idempotent-Replayed: true`; one NFO scale call, one MLMF notification, one producer outbox row, one configuration job at RAN NF OAM) and once with another body or on another resource's path (422 `IDEMPOTENCY_KEY_REUSED`, nothing stored). For DME `/actions` they also show the `X-MSAC-Credential` header left out of the fingerprint and of the stored row, a recorded `actionId` still IGNORED under a new key, and an SDK retry of an UNCONFIRMED answer replayed while a new call with the `actionId` recovers the outcome. Each test fails with the decorators removed (checked by removing them). The guard test now allows only class b, c, the token flow and the multipart artifact upload. Not tested: as for slice 1.
 
+**Replays (MLMF-REPORT-REPLAY)**: `aimgf/tests/test_main.py` (a group step that fails after the report's commit is 200 with `groupRetrainError` and one report, its keyed repeat replayed; a failure before the commit stores nothing and releases the key). Each new test except the before-the-commit one fails on the code without the change.
+
 **Today**: one suite per module, the SDK, `shared`, the GUI backend and each sample rApp, and the Java SDK's own (`sdk-java`, JUnit 6, CI job `sdk-java`: token acquisition and refresh, retry and error mapping against a fake HTTP server, the route contract against `docs/openapi`, the example rApp). Counts per suite: [TEST_COUNTS.md](TEST_COUNTS.md). Lint is `ruff`: syntax errors and undefined names, and the bug-finding rule sets `B`, `S` and `PLE` (V-2a, `ruff.toml`). The Go SDK (`sdk-go/`, 92 % of the library, `go test -race`) has its own CI job, `sdk-go`, and is outside the Python coverage floors; its drift check against `docs/openapi/` is `routes_test.go`.
 **Measured (V-1, statement coverage of each module's own unit suite on SQLite)**: the modules are at 93 to 100 % (the small ones by count are fully covered: MLLF 100 % of 26 statements, RAN Analytics 100 %, SO SMOS 100 %), `shared` 87.5 % (its Postgres tests skip in this job and run in `migration-postgres`), SDK 96 %, GUI backend 94.7 %. Two findings: (1) **a low test count is not low coverage**, so "thin" in the first draft of this plan was the wrong measure and the per-module test-raising work is dropped; (2) the four **sample rApps' own suites covered only 37 to 48 %** of their `app/` code (the model and decision engine, not the service routes, which the integration tests and the runbook exercised; raised to 98 to 99 % by V-2k, below), and **R1 Termination reads 84.5 %** although a line tracer shows its proxy path running: coverage.py under-reports the async handler there, so the number is a lower bound and the floor is set at what is measured.
 **Callback connects to the vetted address (SEC-15.16)**: `shared/tests/test_webhook_pinned.py` runs `post_webhook`, `get_webhook`, `delete_webhook` and `forward_to_destination` against local plain and TLS servers with a resolver whose second answer differs from the first (the rebinding): the second answer's server gets no connection, the vetted one gets the request with the host name in `Host` and as the TLS server name, a certificate for another name is refused, several and IPv6 records, a literal IP, a name that did not resolve, a redirect not followed; 19 fail without the pin. Not tested: a proxy in the environment (the proxy resolves), and a real resolver.

diff --git a/smo/docs/call-flows/02-aiml-model-train-to-inference.md b/smo/docs/call-flows/02-aiml-model-train-to-inference.md
@@ -280,7 +280,7 @@ sequenceDiagram
         AIM-)S: POST notificationDestination {reportId, modelId, metrics, breachedFloor, missingMetrics}
         opt breached and the model is in a coordination group
             AIM->>MLMR: GET /mlmr/coordination-groups
-            Note over AIM: retrainPropagation decides: ANY_MEMBER_TRIGGERS fires on one breach<br/>MAJORITY_TRIGGERS counts this one report, so fires only for a group of one<br/>WEIGHTED_TRIGGERS is reserved and answers 500 (report kept)
+            Note over AIM: retrainPropagation decides: ANY_MEMBER_TRIGGERS fires on one breach<br/>MAJORITY_TRIGGERS counts this one report, so fires only for a group of one<br/>WEIGHTED_TRIGGERS is reserved: answered as groupRetrainError
             loop each PROMOTED member MLMR knows
                 AIM->>NFO: training runtime, as in 02a (producer aimgf:group-retrain)
                 alt started
@@ -290,13 +290,15 @@ sequenceDiagram
                 end
             end
         end
-        AIM-->>P: 200 {reportId, breachedFloor, missingMetrics, groupRetrainTriggered?, retrainedModelIds?, retrainSkipped?}
+        Note over AIM: the report is stored: a failure of the group step (MLMR or NFO not answering, WEIGHTED_TRIGGERS)<br/>is logged and answered as groupRetrainError {code, detail}, never a 500 (MLMF-REPORT-REPLAY)
+        AIM-->>P: 200 {reportId, breachedFloor, missingMetrics, groupRetrainTriggered?, retrainedModelIds?, retrainSkipped?, groupRetrainError?}
     end
 ```
 
 A guarded metric the report does not carry does not breach: it is listed in `missingMetrics` (MDAF's drift reports carry only their own outputs, call
 flow 13b). A member that is not PROMOTED (already training, mid-certification) is passed over. A model in no group is not retrained by a breach: the
-subscriber decides. Subscribe, notify and unsubscribe, and the pull-only subscription, are in call flow 13.
+subscriber decides. The answer is 200 once the report is committed, so the SDK's repeat under the same `Idempotency-Key` gets it back and stores no
+second report. Subscribe, notify and unsubscribe, and the pull-only subscription, are in call flow 13.
 
 **Phase 1:** a retrained model is the same model: while it trains, its serving runtime keeps the version that was certified, and the new one
 replaces it at the next deploy. There are no model versions side by side (OPEN_ITEMS.md AIML-VER).

diff --git a/smo/aimgf/docs/lifecycle.md b/smo/aimgf/docs/lifecycle.md
@@ -154,15 +154,17 @@ sequenceDiagram
             A->>M: GET /mlmr/coordination-groups
             A->>N: one training workload per PROMOTED member (_start_training)
             A->>DB: each member's run committed on its own, a member NFO refuses is skipped
+            Note over A: any other failure of this step: rolled back, logged, groupRetrainError {code, detail}
         end
-        A-->>P: 200 {reportId, breachedFloor, missingMetrics, groupRetrainTriggered?, retrainedModelIds?, retrainSkipped?}
+        A-->>P: 200 {reportId, breachedFloor, missingMetrics, groupRetrainTriggered?, retrainedModelIds?, retrainSkipped?, groupRetrainError?}
     end
 ```
 
 The subscription itself is [call flow 13](../../docs/call-flows/13-mlmf-subscription-lifecycle.md). Feature groups (`/feature-groups`) are the other
 thing AIMgF creates elsewhere: with `enableDme` it makes a DME data job first (`POST /dme/data-jobs`, 422 `FEATURE_GROUP_DME_JOB_REFUSED` when DME
-refuses) and deletes it when the group is deleted or the insert loses a race on the name. **Phase 1:** `WEIGHTED_TRIGGERS` raises `NotImplementedError`
-after the report is stored (500), and the group is looked up on MLMR's first page of groups only.
+refuses) and deletes it when the group is deleted or the insert loses a race on the name. Once the report is committed the answer is 200: a failure of the group step
+(`WEIGHTED_TRIGGERS`, MLMR or NFO not answering) is answered as `groupRetrainError`, so the SDK's repeat is replayed and stores no second report
+(MLMF-REPORT-REPLAY). **Phase 1:** the group is looked up on MLMR's first page of groups only.
 
 ## e — The worker
 

diff --git a/smo/docs/TEST_COUNTS.md b/smo/docs/TEST_COUNTS.md
@@ -9,7 +9,7 @@ CI runs `--check` and fails when this file no longer matches the code.
 
 | suite | files | test functions | collected tests |
 |---|---:|---:|---:|
-| `aimgf` | 17 | 286 | 436 |
+| `aimgf` | 17 | 290 | 440 |
 | `dme` | 14 | 177 | 190 |
 | `focom` | 3 | 85 | 85 |
 | `gui` | 51 | 519 | — |
@@ -37,7 +37,7 @@ CI runs `--check` and fails when this file no longer matches the code.
 | `sme` | 5 | 122 | 140 |
 | `so-smos` | 3 | 27 | 40 |
 | `tests_integration` | 95 | 737 | 915 |
-| **total** | **418** | **5378** | **7773** (Python) |
+| **total** | **418** | **5382** | **7777** (Python) |
 
 ## Per test file
 
@@ -52,7 +52,7 @@ Paths are relative to the suite's directory (`smo/<suite>/`; `tests_integration`
 | `tests/test_feature_group_token.py` | 7 | 13 |
 | `tests/test_governance_end_of_life.py` | 6 | 6 |
 | `tests/test_job_ownership.py` | 10 | 44 |
-| `tests/test_main.py` | 112 | 125 |
+| `tests/test_main.py` | 116 | 129 |
 | `tests/test_mlmf_guard.py` | 6 | 17 |
 | `tests/test_model_ownership_routes.py` | 10 | 44 |
 | `tests/test_nrm.py` | 22 | 22 |

diff --git a/smo/docs/call-flows/13-mlmf-subscription-lifecycle.md b/smo/docs/call-flows/13-mlmf-subscription-lifecycle.md
@@ -74,9 +74,9 @@ sequenceDiagram
         Note over AIM: breached = a guarded metric the report carries is below its floor or above its ceiling<br/>missingMetrics = the guarded metrics it does not carry (not a breach)<br/>report and the subscriber's push committed together (13d)
         opt breached and the model is in a coordination group
             AIM->>MLMR: GET /mlmr/coordination-groups
-            Note over AIM: retrainPropagation decides, then each PROMOTED member retrained on its own (call flow 02e)
+            Note over AIM: retrainPropagation decides, then each PROMOTED member retrained on its own (call flow 02e)<br/>a failure here is groupRetrainError {code, detail}, the report kept
         end
-        AIM-->>P: 200 {reportId, breachedFloor, missingMetrics, groupRetrainTriggered?, retrainedModelIds?, retrainSkipped?}
+        AIM-->>P: 200 {reportId, breachedFloor, missingMetrics, groupRetrainTriggered?, retrainedModelIds?, retrainSkipped?, groupRetrainError?}
     end
 ```
 
